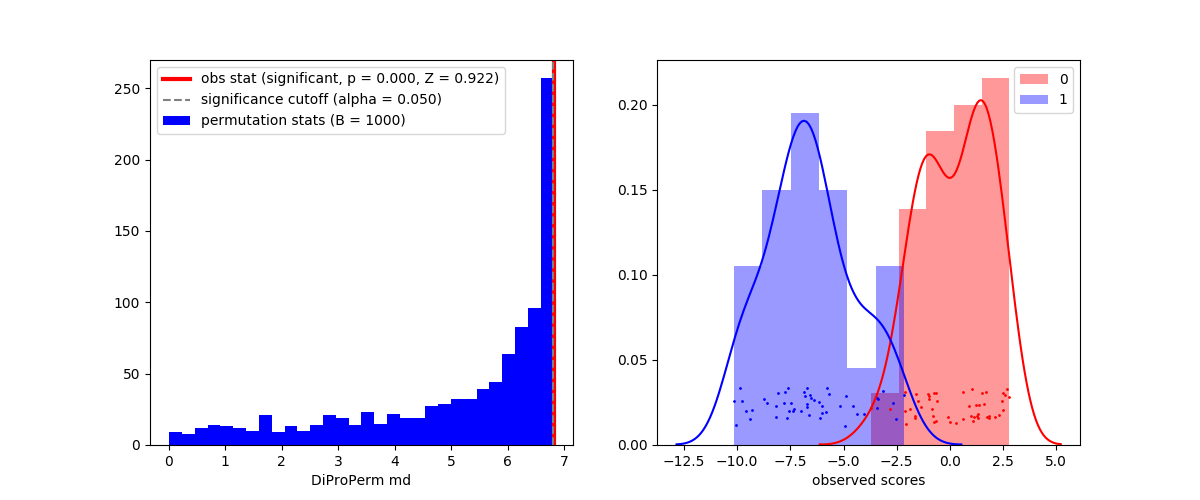
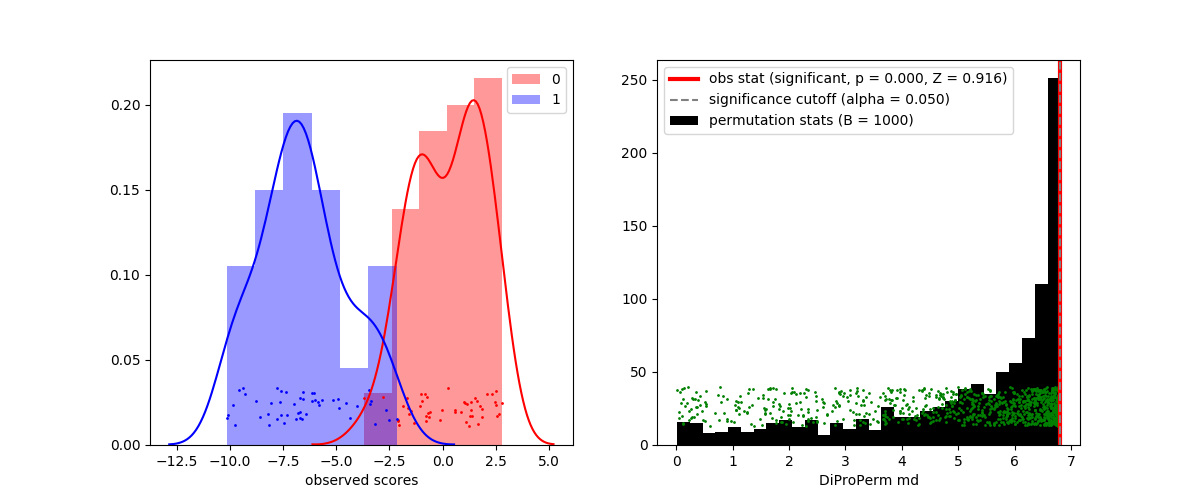
diagnostic

diff --git a/diproperm/viz.py b/diproperm/viz.py
@@ -51,21 +51,37 @@ def plot_perm_scores(perm_scores, perm_y, obs_y):
     obs1_perm0 = (obs_y == classes[1]) & (perm_y == classes[0])
     obs1_perm1 = (obs_y == classes[1]) & (perm_y == classes[1])
 
-    sns.distplot(perm_scores[obs0_perm0], color='red')
-    jitter(perm_scores[obs0_perm0], color='red', s=40,
-           label='obs {}, perm {}'.format(classes[0], classes[0]))
+    perm0_color = 'red'
+    perm1_color = 'blue'
 
-    sns.distplot(perm_scores[obs0_perm1], color='red')
-    jitter(perm_scores[obs0_perm1], color='red', s=40,  marker='x',
-           label='obs {}, perm {}'.format(classes[0], classes[1]))
+    obs0_marker = 'o'
+    obs0_size = 100
+    obs1_marker = 'x'
+    obs1_size = 150
 
-    sns.distplot(perm_scores[obs1_perm0], color='blue')
-    jitter(perm_scores[obs1_perm0], color='blue', s=40,
-           label='obs {}, perm {}'.format(classes[1], classes[0]))
+    obs0_perm0_dist_kws = {'color': perm0_color, 'hist_kws': {'alpha': .1}}
+    obs0_perm0_jitter_kws = {'color': perm0_color, 's': obs0_size, 'marker': obs0_marker}
 
-    sns.distplot(perm_scores[obs1_perm1], color='blue')
-    jitter(perm_scores[obs1_perm1], color='blue', s=40,  marker='x',
-           label='obs {}, perm {}'.format(classes[1], classes[1]))
+    obs0_perm1_dist_kws = {'color': perm1_color, 'hist_kws': {'alpha': .1}}
+    obs0_perm1_jitter_kws = {'color': perm1_color, 's': obs0_size, 'marker': obs0_marker}
+
+    obs1_perm0_dist_kws = {'color': perm0_color, 'hist_kws': {'alpha': .1}}
+    obs1_perm0_jitter_kws = {'color': perm0_color, 's': obs1_size, 'marker': obs1_marker}
+
+    obs1_perm1_dist_kws = {'color': perm1_color, 'hist_kws': {'alpha': .1}}
+    obs1_perm1_jitter_kws = {'color': perm1_color, 's': obs1_size, 'marker': obs1_marker}
+
+    sns.distplot(perm_scores[obs0_perm0], **obs0_perm0_dist_kws)
+    jitter(perm_scores[obs0_perm0], **obs0_perm0_jitter_kws)
+
+    sns.distplot(perm_scores[obs0_perm1], **obs0_perm1_dist_kws)
+    jitter(perm_scores[obs0_perm1], **obs0_perm1_jitter_kws)
+
+    sns.distplot(perm_scores[obs1_perm0], **obs1_perm0_dist_kws)
+    jitter(perm_scores[obs1_perm0], **obs1_perm0_jitter_kws)
+
+    sns.distplot(perm_scores[obs1_perm1], **obs1_perm1_dist_kws)
+    jitter(perm_scores[obs1_perm1], **obs1_perm1_jitter_kws)
 
     plt.xlabel('permutation scores')
 
@@ -102,9 +118,11 @@ def plot_perm_sep_stats(obs, perm, stat, rejected, p, Z, cuttoff, alpha, B, bins
     """
 
     plt.hist(perm,
-             color='blue',
+             color='black',
              label='permutation stats (B = {})'.format(B),
              bins=bins)
+
+    jitter(perm, color='green')
 
     if rejected:
         obs_lw = 3

diff --git a/diproperm/DiProPerm.py b/diproperm/DiProPerm.py
@@ -323,6 +323,42 @@ class DiProPerm(object):
         plot_perm_scores(perm_scores=self.perm_scores_[b, :],
                          perm_y=self.perm_y_[b, :], obs_y=self.obs_y_)
 
+    def plot_diagnostic(self, stat):
+        """
+        Plots DiProPerm diagnostic for a given separation statistics.
+
+        - (top left) observed data scores, colored by observed classes
+        - (top right) DiProPerm null distribution
+        - (bottom left) permuted data scores of the permutation with the
+        smallest statistic value
+
+        - (bottom left) permuted data scores of the permutation with the
+        largest statistic value
+
+        Parameters
+        ----------
+        stat: str
+            Which separation statistic.
+        """
+        # plt.figure(figsize=[20, 20])
+        plt.subplot(2, 2, 1)
+        self.plot_observed_scores()
+
+        plt.subplot(2, 2, 2)
+        self.plot_perm_sep_stats(stat)
+
+        plt.subplot(2, 2, 3)
+        idx_min = np.argmin(self.perm_sep_stats_[stat])
+        val_min = self.perm_sep_stats_[stat][idx_min]
+        self.plot_perm_scores(idx_min)
+        plt.title('smallest {} ({:1.3f})'.format(stat, val_min))
+
+        plt.subplot(2, 2, 4)
+        idx_max = np.argmax(self.perm_sep_stats_[stat])
+        val_max = self.perm_sep_stats_[stat][idx_max]
+        self.plot_perm_scores(idx_max)
+        plt.title('largest {} ({:1.3f})'.format(stat, val_max))
+
 
 def get_test_statistics(obs_stat, perm_samples, alpha=0.05,
                         custom_test_stats=None):

diff --git a/doc/figures/make_readme_figures.py b/doc/figures/make_readme_figures.py
@@ -16,10 +16,11 @@ plt.figure(figsize=[12, 5])
 
 # show histogram of separation statistics
 plt.subplot(1, 2, 1)
-dpp.plot_perm_sep_stats(stat='md')
+dpp.plot_observed_scores()
 
 # the observed scores
 plt.subplot(1, 2, 2)
-dpp.plot_observed_scores()
+dpp.plot_perm_sep_stats(stat='md')
+
 plt.savefig('dpp_plots.png')
 plt.close()
